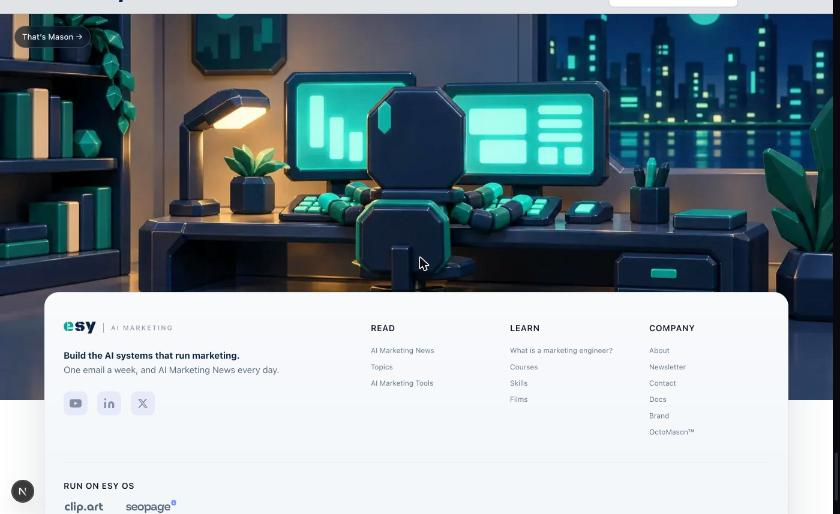
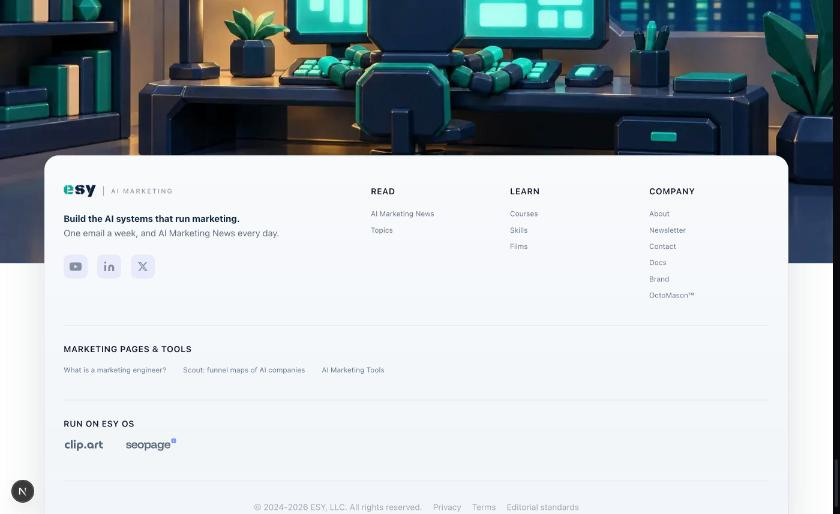
Footer: a Marketing Pages & Tools row above Run on Esy OS
What is a marketing engineer?, Scout and AI Marketing Tools as a full-width row,
linked from every page. AI Marketing Tools leaves Read; the newsletter is
"Newsletter" under Company.

diff --git a/src/components/Home/footer.tsx b/src/components/Home/footer.tsx
@@ -298,15 +298,12 @@ export default function Footer () {
             links={[
               { href: "/news/", text: "AI Marketing News" },
               { href: "/topics/", text: "Topics" },
-              { href: "/tools/", text: "AI Marketing Tools" },
             ]}
           />
 
           <FooterColumn
             title="Learn"
             links={[
-              // The term's own page (2026-11-07), linked sitewide so it can rank.
-              { href: "/marketing-engineer/", text: "What is a marketing engineer?" },
               { href: "/courses/", text: "Courses" },
               { href: "/skills/", text: "Skills" },
               { href: "/films/", text: "Films" },
@@ -317,7 +314,7 @@ export default function Footer () {
             title="Company"
             links={[
               { href: "/about/", text: "About" },
-              // "Newsletter", not its name, so it never reads as the marketing engineer page in Learn (Zev, 2026-11-07).
+              // "Newsletter", not its name, so it never reads like the marketing engineer page (Zev, 2026-11-07).
               { href: "/newsletter/", text: "Newsletter" },
               { href: "mailto:zev@esy.com", text: "Contact" },
               { href: "/docs", text: "Docs" },
@@ -327,6 +324,22 @@ export default function Footer () {
               { href: "/mason/", text: "OctoMason™" },
             ]}
           />
+        </div>
+
+        {/* Marketing Pages & Tools (Zev, 2026-11-07): the landing pages, a full-width row above
+            Run on Esy OS, linked from every page so they can rank. AI Marketing Tools moved here
+            from Read. */}
+        <div className="footer-extended">
+          <h4>Marketing Pages &amp; Tools</h4>
+          <div className="footer-extended-links">
+            {[
+              { href: "/marketing-engineer/", text: "What is a marketing engineer?" },
+              { href: "/scout/", text: "Scout: funnel maps of AI companies" },
+              { href: "/tools/", text: "AI Marketing Tools" },
+            ].map((l) => (
+              <a key={l.href} href={l.href} className="footer-link">{l.text}</a>
+            ))}
+          </div>
         </div>
 
         {/* From ESY — the full-width band: standalone businesses ESY built,
